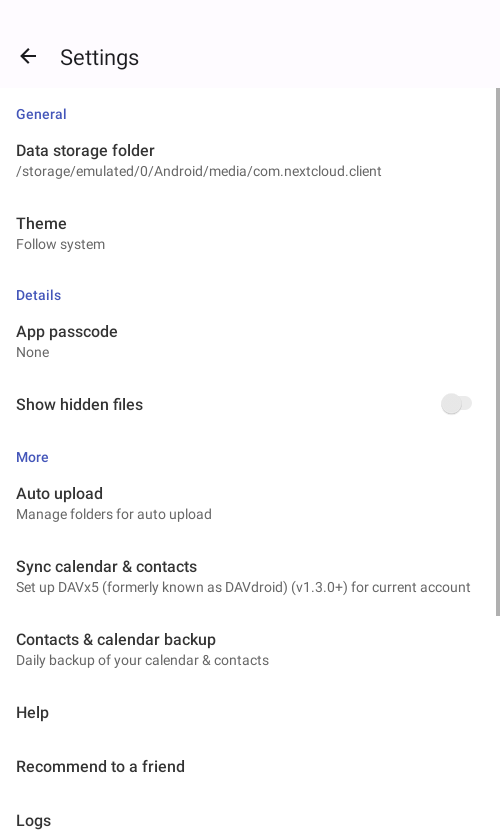
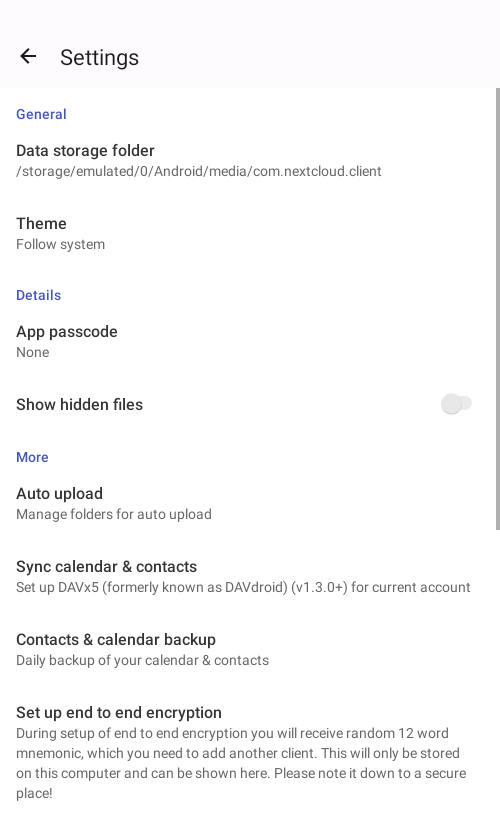
Better show different states of E2E

Changed region(s): [[0.03, 0.8427, 0.93, 0.9988], [0.99, 0.6242, 1.0, 0.7491]]

diff --git a/app/src/main/java/com/owncloud/android/ui/activity/SetupEncryptionActivity.kt b/app/src/main/java/com/owncloud/android/ui/activity/SetupEncryptionActivity.kt
@@ -1,0 +1,46 @@
+/*
+ *
+ * Nextcloud Android client application
+ *
+ * @author Tobias Kaminsky
+ * Copyright (C) 2022 Tobias Kaminsky
+ * Copyright (C) 2022 Nextcloud GmbH
+ *
+ * This program is free software: you can redistribute it and/or modify
+ * it under the terms of the GNU Affero General Public License as published by
+ * the Free Software Foundation, either version 3 of the License, or
+ * (at your option) any later version.
+ *
+ * This program is distributed in the hope that it will be useful,
+ * but WITHOUT ANY WARRANTY; without even the implied warranty of
+ * MERCHANTABILITY or FITNESS FOR A PARTICULAR PURPOSE. See the
+ * GNU Affero General Public License for more details.
+ *
+ * You should have received a copy of the GNU Affero General Public License
+ * along with this program. If not, see <https://www.gnu.org/licenses/>.
+ */
+
+package com.owncloud.android.ui.activity
+
+import android.os.Bundle
+import android.widget.Toast
+import androidx.appcompat.app.AppCompatActivity
+import com.nextcloud.client.account.User
+import com.owncloud.android.R
+import com.owncloud.android.ui.dialog.SetupEncryptionDialogFragment
+
+class SetupEncryptionActivity : AppCompatActivity() {
+    override fun onCreate(savedInstanceState: Bundle?) {
+        super.onCreate(savedInstanceState)
+
+        val user = intent?.getParcelableExtra("EXTRA_USER") as User?
+
+        if (user == null) {
+            Toast.makeText(this, getString(R.string.error_showing_encryption_dialog), Toast.LENGTH_LONG).show()
+            return
+        }
+
+        val setupEncryptionDialogFragment = SetupEncryptionDialogFragment.newInstance(user, -1)
+        setupEncryptionDialogFragment.show(supportFragmentManager, null)
+    }
+}

diff --git a/app/src/main/java/com/nextcloud/client/jobs/AccountRemovalWork.kt b/app/src/main/java/com/nextcloud/client/jobs/AccountRemovalWork.kt
@@ -114,9 +114,7 @@ class AccountRemovalWork(
         uploadsStorageManager.removeUserUploads(user)
 
         // delete stored E2E keys and mnemonic
-        arbitraryDataProvider.deleteKeyForAccount(user.accountName, EncryptionUtils.PRIVATE_KEY)
-        arbitraryDataProvider.deleteKeyForAccount(user.accountName, EncryptionUtils.PUBLIC_KEY)
-        arbitraryDataProvider.deleteKeyForAccount(user.accountName, EncryptionUtils.MNEMONIC)
+        EncryptionUtils.removeE2E(arbitraryDataProvider, user)
 
         // unset default account, if needed
         if (preferences.currentAccountName.equals(user.accountName)) {

diff --git a/app/src/main/java/com/owncloud/android/ui/activity/SettingsActivity.java b/app/src/main/java/com/owncloud/android/ui/activity/SettingsActivity.java
@@ -72,6 +72,8 @@ import com.owncloud.android.lib.common.utils.Log_OC;
 import com.owncloud.android.providers.DocumentsStorageProvider;
 import com.owncloud.android.ui.ThemeableSwitchPreference;
 import com.owncloud.android.ui.asynctasks.LoadingVersionNumberTask;
+import com.owncloud.android.ui.helpers.FileOperationsHelper;
+import com.owncloud.android.utils.ClipboardUtil;
 import com.owncloud.android.utils.DeviceCredentialUtils;
 import com.owncloud.android.utils.DisplayUtils;
 import com.owncloud.android.utils.EncryptionUtils;
@@ -98,7 +100,8 @@ import androidx.core.content.res.ResourcesCompat;
  * It proxies the necessary calls via {@link androidx.appcompat.app.AppCompatDelegate} to be used with AppCompat.
  */
 public class SettingsActivity extends PreferenceActivity
-    implements StorageMigration.StorageMigrationProgressListener, LoadingVersionNumberTask.VersionDevInterface,
+    implements StorageMigration.StorageMigrationProgressListener,
+    LoadingVersionNumberTask.VersionDevInterface,
     Injectable {
 
     private static final String TAG = SettingsActivity.class.getSimpleName();
@@ -323,7 +326,11 @@ public class SettingsActivity extends PreferenceActivity
 
         setupBackupPreference();
 
+        setupE2EPreference(preferenceCategoryMore);
+
         setupE2EMnemonicPreference(preferenceCategoryMore);
+
+        removeE2E(preferenceCategoryMore);
 
         setupHelpPreference(preferenceCategoryMore);
 
@@ -411,6 +418,25 @@ public class SettingsActivity extends PreferenceActivity
         }
     }
 
+    private void setupE2EPreference(PreferenceCategory preferenceCategoryMore) {
+        Preference preference = findPreference("setup_e2e");
+
+        if (preference != null) {
+            if (FileOperationsHelper.isEndToEndEncryptionSetup(this, user)) {
+                preferenceCategoryMore.removePreference(preference);
+            } else {
+                preference.setOnPreferenceClickListener(p -> {
+                    Intent i = new Intent(MainApp.getAppContext(), SetupEncryptionActivity.class);
+                    i.setFlags(Intent.FLAG_ACTIVITY_REORDER_TO_FRONT);
+                    i.putExtra("EXTRA_USER", user);
+                    startActivityForResult(i, ACTION_SHOW_MNEMONIC);
+
+                    return true;
+                });
+            }
+        }
+    }
+
     private void setupE2EMnemonicPreference(PreferenceCategory preferenceCategoryMore) {
         String mnemonic = arbitraryDataProvider.getValue(user.getAccountName(), EncryptionUtils.MNEMONIC);
 
@@ -432,6 +458,36 @@ public class SettingsActivity extends PreferenceActivity
                 }
             } else {
                 preferenceCategoryMore.removePreference(pMnemonic);
+            }
+        }
+    }
+
+    private void removeE2E(PreferenceCategory preferenceCategoryMore) {
+        Preference preference = findPreference("remove_e2e");
+
+        if (preference != null) {
+            if (!FileOperationsHelper.isEndToEndEncryptionSetup(this, user)) {
+                preferenceCategoryMore.removePreference(preference);
+            } else {
+                preference.setOnPreferenceClickListener(p -> {
+                    AlertDialog.Builder builder = new AlertDialog.Builder(this, R.style.FallbackTheming_Dialog);
+                    AlertDialog alertDialog = builder.setTitle(R.string.prefs_e2e_mnemonic)
+                        .setMessage(getString(R.string.remove_e2e_message))
+                        .setCancelable(true)
+                        .setNegativeButton(R.string.common_cancel, ((dialog, i) -> dialog.dismiss()))
+                        .setPositiveButton(R.string.confirm_removal, (dialog, which) -> {
+                            // do something
+                            EncryptionUtils.removeE2E(arbitraryDataProvider, user);
+                            preferenceCategoryMore.removePreference(preference);
+
+                            dialog.dismiss();
+                        })
+                        .create();
+
+                    alertDialog.show();
+
+                    return true;
+                });
             }
         }
     }
@@ -879,6 +935,9 @@ public class SettingsActivity extends PreferenceActivity
                 AlertDialog.Builder builder = new AlertDialog.Builder(this, R.style.FallbackTheming_Dialog);
                 AlertDialog alertDialog = builder.setTitle(R.string.prefs_e2e_mnemonic)
                     .setMessage(mnemonic)
+                    .setNegativeButton(R.string.common_cancel, (dialog, i) -> dialog.dismiss())
+                    .setNeutralButton(R.string.common_copy, (dialog, i) ->
+                        ClipboardUtil.copyToClipboard(this, mnemonic, false))
                     .setPositiveButton(R.string.common_ok, (dialog, which) -> dialog.dismiss())
                     .create();
 

diff --git a/app/src/main/java/com/owncloud/android/utils/EncryptionUtils.java b/app/src/main/java/com/owncloud/android/utils/EncryptionUtils.java
@@ -851,4 +851,11 @@ public final class EncryptionUtils {
             return new RemoteOperationResult(new Exception("No token available"));
         }
     }
+
+    public static void removeE2E(ArbitraryDataProvider arbitraryDataProvider, User user) {
+        // delete stored E2E keys and mnemonic
+        arbitraryDataProvider.deleteKeyForAccount(user.getAccountName(), EncryptionUtils.PRIVATE_KEY);
+        arbitraryDataProvider.deleteKeyForAccount(user.getAccountName(), EncryptionUtils.PUBLIC_KEY);
+        arbitraryDataProvider.deleteKeyForAccount(user.getAccountName(), EncryptionUtils.MNEMONIC);
+    }
 }
